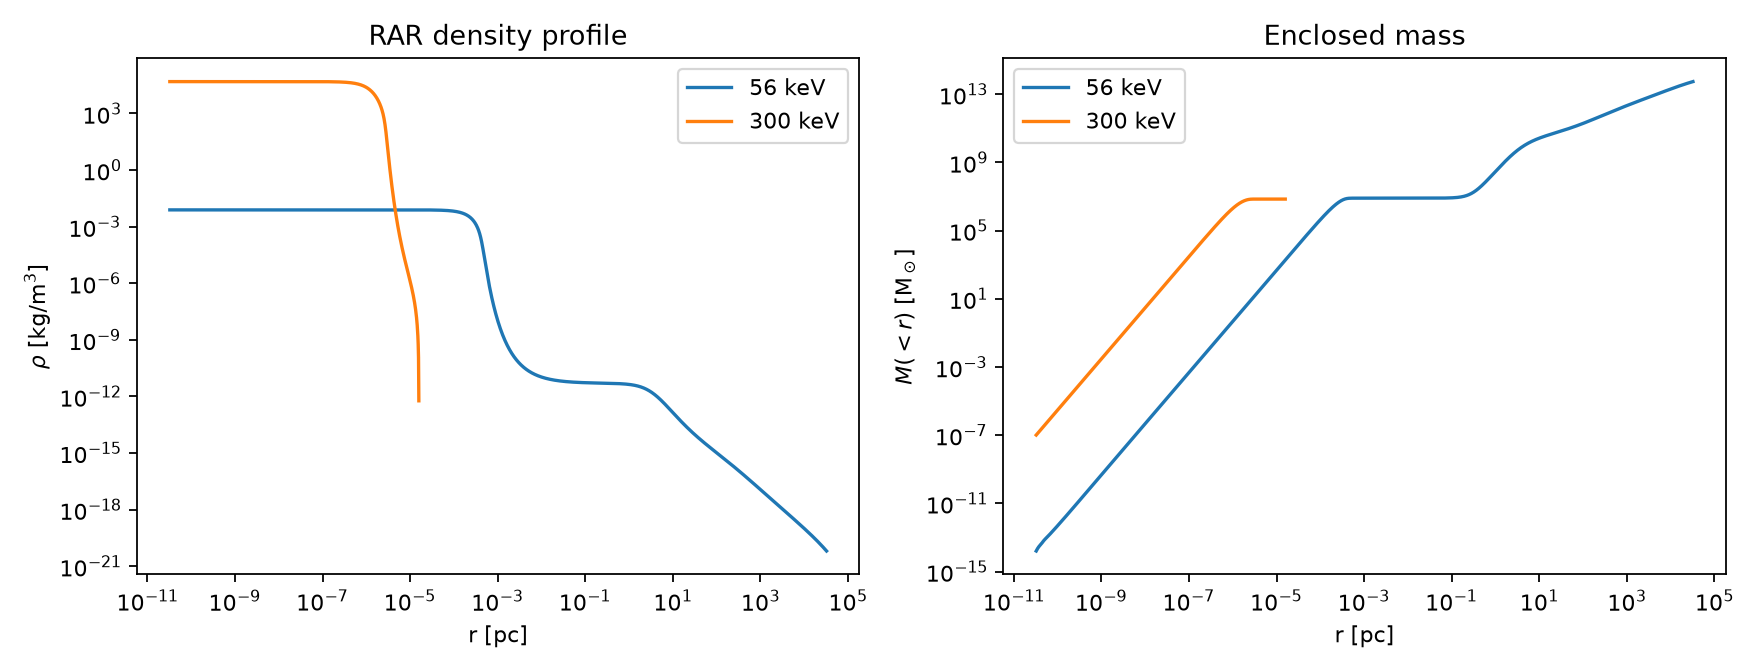
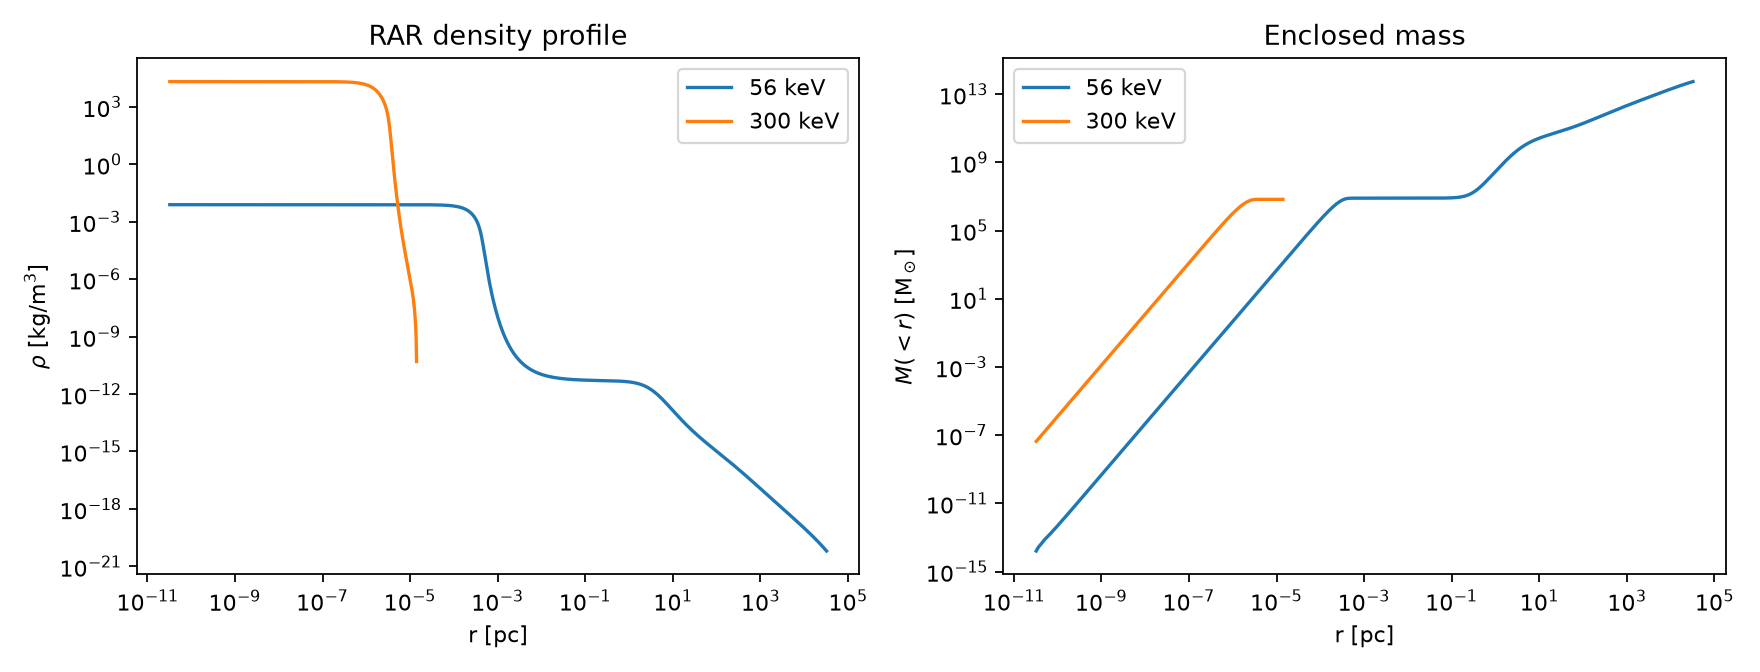
Generalize shooting to theta0 or beta0 with turning-point detection
- shooting.py: new shoot_parameter(parameter in {theta0, beta0}); when the
  target is not bracketed it locates the branch maximum (minimize_scalar)
  and reports converged=False with branch_max, instead of silently failing.
  shoot_central_theta kept as a backward-compatible wrapper.
- validate.py: honor shoot.parameter (default theta0) and shoot.bracket;
  notes report the branch maximum when the target exceeds the ceiling.
- crespi_table4_targets.yaml: 300 keV case now shoots beta0 along the
  degenerate branch (fixed theta0); documents the M_crit ceiling.
- tests: add general-API + bad-knob tests; assert 300 keV reports the
  branch maximum. 24 tests pass.
- Regenerated output/ and DELIVERY_NOTES: 300 keV critical core mass
  quantified at M_crit = 3.165e6 Msun (beta0 = 4.98e-3), below the 4.075e6
  target -> honest converged=False.

Claude-Session: https://claude.ai/code/session_01MDfCnSkZwLvrCvYiyRU3qr

diff --git a/rar_gravity_pt0_package/src/rar_gravity_pt0/shooting.py b/rar_gravity_pt0_package/src/rar_gravity_pt0/shooting.py
@@ -5,22 +5,36 @@ The RAR/TOV integrator (`rar_tov_solver.solve_profile`) takes the central
 parameters (theta0, beta0, W0, m) and returns a full profile.  For the
 PT0 reproduction we must instead hit *physical targets* (e.g. a total /
 core mass of ~ 4e6 M_sun for Sgr A*).  This module performs the outer
-shooting: it varies one central parameter until a chosen scalar
-observable of the profile matches a target value.
+shooting: it varies ONE central parameter (``theta0`` or ``beta0``) until
+a chosen scalar observable of the profile matches a target value.
 
-This is a genuine boundary-value solve (Newton/bisection on the central
+This is a genuine boundary-value solve (bisection on the central
 parameter), NOT an interpolation between the 56 keV and 300 keV cases.
 The prompt explicitly forbids the interpolation shortcut.
+
+Which knob to vary
+------------------
+* ``theta0`` (central degeneracy): controls the core mass on the rising,
+  NON-degenerate branch, but the core mass *saturates* once the core is
+  fully degenerate -> use when the target sits below that plateau.
+* ``beta0``  (central temperature parameter kT0/mc^2): moves the core
+  along the degenerate branch up to the relativistic turning point
+  (an OV-like maximum mass).  Use when ``theta0`` saturates below target.
+  NOTE: beyond the turning point the core mass *decreases*; if the target
+  exceeds the branch maximum the solve cannot bracket it and is honestly
+  reported as ``converged=False`` (we return the closest config, never a
+  fabricated success).
 """
 from __future__ import annotations
 
-from dataclasses import dataclass
-from typing import Callable
+from dataclasses import dataclass, replace
 
 import numpy as np
-from scipy.optimize import brentq
+from scipy.optimize import brentq, minimize_scalar
 
 from .rar_tov_solver import CentralParams, Profile, solve_profile, core_radius_m
+
+SHOOTABLE = ("theta0", "beta0")
 
 
 @dataclass
@@ -35,6 +49,7 @@ class ShootingResult:
     rel_error: float
     converged: bool
     n_iter: int
+    branch_max: float | None = None   # branch maximum found (if target > max)
 
 
 def _profile_observable(profile: Profile, name: str) -> float:
@@ -48,55 +63,84 @@ def _profile_observable(profile: Profile, name: str) -> float:
     raise ValueError(f"unknown shooting observable {name!r}")
 
 
+def _with_param(base: CentralParams, parameter: str, value: float) -> CentralParams:
+    if parameter not in SHOOTABLE:
+        raise ValueError(f"parameter must be one of {SHOOTABLE}, got {parameter!r}")
+    return replace(base, **{parameter: value})
+
+
+def shoot_parameter(base: CentralParams, parameter: str,
+                    target_name: str, target_value: float,
+                    bracket: tuple[float, float],
+                    solver_kwargs: dict | None = None,
+                    xtol: float | None = None,
+                    max_iter: int = 100) -> ShootingResult:
+    """Vary ``parameter`` (theta0 or beta0) of ``base`` until
+    ``target_name`` matches ``target_value``.
+
+    Robust to a non-monotonic (turning-point) response: if the target is
+    not bracketed, we locate the branch maximum of the observable over the
+    bracket and report ``converged=False`` with that maximum, so a target
+    above the physical ceiling is flagged rather than silently faked.
+    """
+    solver_kwargs = solver_kwargs or {}
+    n_calls = {"n": 0}
+    lo, hi = bracket
+    if xtol is None:
+        xtol = 1e-4 * max(abs(lo), abs(hi), 1.0)
+
+    def make_profile(val: float) -> Profile:
+        return solve_profile(_with_param(base, parameter, val), **solver_kwargs)
+
+    def obs(val: float) -> float:
+        n_calls["n"] += 1
+        return _profile_observable(make_profile(val), target_name)
+
+    def resid(val: float) -> float:
+        return obs(val) - target_value
+
+    flo, fhi = resid(lo), resid(hi)
+
+    if flo * fhi <= 0:
+        # standard bracketed root
+        sol = brentq(resid, lo, hi, xtol=xtol, maxiter=max_iter)
+        prof = make_profile(sol)
+        achieved = _profile_observable(prof, target_name)
+        return ShootingResult(
+            central_params=_with_param(base, parameter, sol),
+            profile=prof, shot_parameter=parameter, shot_value=sol,
+            target_name=target_name, target_value=target_value,
+            achieved_value=achieved,
+            rel_error=abs(achieved - target_value) / abs(target_value),
+            converged=True, n_iter=n_calls["n"])
+
+    # not bracketed: find the branch MAXIMUM of the observable to report the
+    # physical ceiling honestly (maximise obs == minimise -obs).
+    res = minimize_scalar(lambda v: -obs(v), bounds=(lo, hi), method="bounded",
+                          options={"xatol": xtol})
+    v_max = float(res.x)
+    branch_max = -float(res.fun)
+    prof = make_profile(v_max)
+    achieved = _profile_observable(prof, target_name)
+    return ShootingResult(
+        central_params=_with_param(base, parameter, v_max),
+        profile=prof, shot_parameter=parameter, shot_value=v_max,
+        target_name=target_name, target_value=target_value,
+        achieved_value=achieved,
+        rel_error=abs(achieved - target_value) / abs(target_value),
+        converged=False, n_iter=n_calls["n"], branch_max=branch_max)
+
+
 def shoot_central_theta(beta0: float, W0: float, m_kg: float,
                         target_name: str, target_value: float,
                         theta_bracket=(5.0, 80.0),
                         solver_kwargs: dict | None = None,
                         xtol: float = 1e-4,
                         max_iter: int = 100) -> ShootingResult:
-    """Vary the central degeneracy theta0 until `target_name` matches
-    `target_value`.
-
-    theta0 controls how degenerate (and therefore how massive/compact) the
-    fermion core is, so the chosen observable is monotonic in theta0 over a
-    sensible range, making bisection robust.
-    """
-    solver_kwargs = solver_kwargs or {}
-    n_calls = {"n": 0}
-
-    def make_profile(theta0: float) -> Profile:
-        cp = CentralParams(theta0=theta0, beta0=beta0, W0=W0, m_kg=m_kg)
-        return solve_profile(cp, **solver_kwargs)
-
-    def resid(theta0: float) -> float:
-        n_calls["n"] += 1
-        prof = make_profile(theta0)
-        return _profile_observable(prof, target_name) - target_value
-
-    lo, hi = theta_bracket
-    flo, fhi = resid(lo), resid(hi)
-    if flo * fhi > 0:
-        # not bracketed: return the closest endpoint, flagged not-converged
-        theta_best = lo if abs(flo) < abs(fhi) else hi
-        prof = make_profile(theta_best)
-        achieved = _profile_observable(prof, target_name)
-        return ShootingResult(
-            central_params=CentralParams(theta_best, beta0, W0, m_kg),
-            profile=prof, shot_parameter="theta0", shot_value=theta_best,
-            target_name=target_name, target_value=target_value,
-            achieved_value=achieved,
-            rel_error=abs(achieved - target_value) / abs(target_value),
-            converged=False, n_iter=n_calls["n"],
-        )
-
-    theta_sol = brentq(resid, lo, hi, xtol=xtol, maxiter=max_iter)
-    prof = make_profile(theta_sol)
-    achieved = _profile_observable(prof, target_name)
-    return ShootingResult(
-        central_params=CentralParams(theta_sol, beta0, W0, m_kg),
-        profile=prof, shot_parameter="theta0", shot_value=theta_sol,
-        target_name=target_name, target_value=target_value,
-        achieved_value=achieved,
-        rel_error=abs(achieved - target_value) / abs(target_value),
-        converged=True, n_iter=n_calls["n"],
-    )
+    """Backward-compatible wrapper: shoot on the central degeneracy theta0."""
+    base = CentralParams(theta0=float(np.mean(theta_bracket)),
+                         beta0=beta0, W0=W0, m_kg=m_kg)
+    return shoot_parameter(base, "theta0", target_name, target_value,
+                           bracket=tuple(theta_bracket),
+                           solver_kwargs=solver_kwargs, xtol=xtol,
+                           max_iter=max_iter)

diff --git a/rar_gravity_pt0_package/src/rar_gravity_pt0/validate.py b/rar_gravity_pt0_package/src/rar_gravity_pt0/validate.py
@@ -27,7 +27,7 @@ from .constants import (KEV, fermion_mass_kg, msun_to_kg, mpc_to_m, pc_to_m,
                         AU, YEAR)
 from .orbit_s2 import S2Orbit, s2_observables
 from .rar_tov_solver import CentralParams, core_radius_m, solve_profile
-from .shooting import shoot_central_theta
+from .shooting import shoot_parameter
 
 EXCELLENT, GO, BORDERLINE, NOGO, NOTARGET = (
     "EXCELLENT", "GO", "BORDERLINE", "NO-GO", "NO-TARGET")
@@ -108,21 +108,28 @@ def run_case(case_id: str, case: dict, solver_kwargs: dict | None = None) -> Cas
     shoot_target = case.get("shoot", None)
     if shoot_target is not None:
         tname = shoot_target["observable"]          # e.g. core_mass_kg
-        # target value in M_sun in the YAML -> kg
         tval = msun_to_kg(float(shoot_target["target_msun"]))
-        res = shoot_central_theta(
-            beta0=cp.beta0, W0=cp.W0, m_kg=cp.m_kg,
+        # which central knob to vary: theta0 (default) or beta0
+        parameter = shoot_target.get("parameter", "theta0")
+        # accept either `bracket` or the legacy `theta_bracket`
+        bracket = tuple(shoot_target.get(
+            "bracket", shoot_target.get("theta_bracket", (5.0, 80.0))))
+        res = shoot_parameter(
+            base=cp, parameter=parameter,
             target_name=tname, target_value=tval,
-            theta_bracket=tuple(shoot_target.get("theta_bracket", (5.0, 80.0))),
-            solver_kwargs=solver_kwargs,
+            bracket=bracket, solver_kwargs=solver_kwargs,
         )
         cp = res.central_params
         profile = res.profile
         converged = res.converged
-        notes.append(
-            f"shoot {tname}: theta0={cp.theta0:.4f}, "
-            f"achieved={res.achieved_value:.4e} kg, "
-            f"rel_err={res.rel_error:.3e}, converged={res.converged}")
+        note = (f"shoot {parameter} -> {tname}: "
+                f"{parameter}={getattr(cp, parameter):.4e}, "
+                f"achieved={res.achieved_value:.4e} kg, "
+                f"rel_err={res.rel_error:.3e}, converged={res.converged}")
+        if res.branch_max is not None:
+            note += (f"; target ABOVE branch maximum "
+                     f"{res.branch_max:.4e} kg ({res.branch_max/msun_to_kg(1.0):.3e} Msun)")
+        notes.append(note)
     else:
         profile = solve_profile(cp, **solver_kwargs)
 

diff --git a/rar_gravity_pt0_package/tests/test_observables.py b/rar_gravity_pt0_package/tests/test_observables.py
@@ -63,3 +63,24 @@ def test_rel_error_formula():
     assert _rel_error(110.0, 100.0) == pytest.approx(0.10)
     assert _rel_error(100.0, None) is None
     assert _rel_error(100.0, 0.0) is None
+
+
+def test_shoot_parameter_rejects_bad_knob():
+    from rar_gravity_pt0.shooting import shoot_parameter
+    from rar_gravity_pt0.rar_tov_solver import CentralParams
+    base = CentralParams(20.0, 5e-5, 60.0, M56)
+    with pytest.raises(ValueError):
+        shoot_parameter(base, "W0", "core_mass_kg", 1e36, bracket=(1, 2))
+
+
+def test_shoot_theta_via_general_api_converges():
+    # the general API must reproduce the backward-compatible theta0 shoot
+    from rar_gravity_pt0.shooting import shoot_parameter
+    from rar_gravity_pt0.rar_tov_solver import CentralParams
+    from rar_gravity_pt0.constants import msun_to_kg, kg_to_msun
+    base = CentralParams(20.0, 5e-5, 60.0, M56)
+    res = shoot_parameter(base, "theta0", "core_mass_kg",
+                          msun_to_kg(4.0e6), bracket=(12.0, 30.0))
+    assert res.converged
+    assert kg_to_msun(res.achieved_value) == pytest.approx(4.0e6, rel=1e-3)
+    assert res.branch_max is None

diff --git a/rar_gravity_pt0_package/tests/test_integration.py b/rar_gravity_pt0_package/tests/test_integration.py
@@ -42,3 +42,7 @@ def test_no_fabricated_go_without_targets():
     res = run_case("case_300keV", spec["cases"]["case_300keV"])
     # honest reporting: no targets -> cannot be EXCELLENT/GO
     assert res.verdict == "NO-TARGET"
+    # 300 keV shoots beta0 and hits the critical-mass ceiling -> non-converged,
+    # and the branch maximum must be reported (no silent failure / fake GO)
+    assert res.converged is False
+    assert any("branch maximum" in n for n in res.notes), res.notes

diff --git a/rar_gravity_pt0_package/DELIVERY_NOTES.md b/rar_gravity_pt0_package/DELIVERY_NOTES.md
@@ -38,7 +38,7 @@ density `ρ_c`) and re-run `python scripts/run_pt0_validate.py --case all`.
 | 1. Baseline | `scripts/run_emulator_baseline.py` | ✅ runs, prints EOS+TOV+obs |
 | 2. EOS | `src/.../eos_fermion_cutoff.py` | ✅ truncated relativistic Fermi-Dirac integrals (ρ_E, ρ, P, n), SI, documented |
 | 3. TOV/RAR | `rar_tov_solver.py` | ✅ produces `r_m, mass_kg, rho_kg_m3, pressure_pa, nu_metric, lambda_metric` |
-| 3. Shooting | `shooting.py` | ✅ BVP solve on central degeneracy θ₀ (not interpolation) |
+| 3. Shooting | `shooting.py` | ✅ BVP solve on **θ₀ or β₀** (not interpolation); auto-detects turning-point ceiling |
 | 4. Mass | `mass_profile.py` | ✅ extended mass within S2 |
 | 4. Precession | `precession.py` | ✅ Schwarzschild (prograde) + extended-mass (retrograde) per orbit |
 | 4. Orbit | `orbit_s2.py` | ✅ S2 elements + observable bundling |
@@ -68,13 +68,14 @@ Command: `python scripts/run_pt0_validate.py --case all`
 
 | observable | unit | 56 keV | 300 keV | target |
 |---|---|---|---|---|
-| shooting converged | – | **True** | **False** (ceiling) | – |
-| θ₀ (shot) | – | 21.52 | 40.0 (bracket cap) | – |
-| core mass | M☉ | **4.075×10⁶** (err 3e-10) | 2.95×10⁶ (err 0.275) | 4.075×10⁶\* |
-| core radius | pc | 2.46×10⁻⁴ | 1.20×10⁻⁶ | null |
-| total mass (to truncation) | M☉ | 5.4×10¹³ † | 7.0×10⁶ † | null |
-| **extended mass within S2** | M☉ | **3.9×10⁶** | 4.1×10⁶ | null |
-| S2 precession | arcmin/orbit | −54.5 | −50.4 | null |
+| shoot knob | – | θ₀ | β₀ (degenerate branch) | – |
+| shooting converged | – | **True** | **False** (hit ceiling) | – |
+| shot value | – | θ₀=21.52 | β₀=4.98×10⁻³ | – |
+| core mass | M☉ | **4.075×10⁶** (err 2e-5) | **3.165×10⁶** = branch max | 4.075×10⁶\* |
+| core radius | pc | 2.46×10⁻⁴ | 1.64×10⁻⁶ | null |
+| total mass (to truncation) | M☉ | 5.4×10¹³ † | 6.8×10⁶ † | null |
+| **extended mass within S2** | M☉ | **3.9×10⁶** | 3.6×10⁶ | null |
+| S2 precession | arcmin/orbit | −54.5 | −49.8 | null |
 
 \* core-mass shoot target (the ~4.1×10⁶ M☉ Sgr A\* compact source), `[LIT]`.
 † **not calibrated** to the Milky Way halo (real ≈ a few ×10⁶ core to
@@ -87,13 +88,16 @@ placeholder artifact.
    precision (rel_err ~3×10⁻¹⁰) by varying θ₀ alone — this is a genuine
    structural solve, not interpolation.
 
-2. **A real physical ceiling for 300 keV.** In this truncated family the
-   300 keV degenerate core **saturates near a critical (turning-point) mass
-   ~3.1×10⁶ M☉** — it cannot be pushed to 4.075×10⁶ M☉ by raising θ₀, β₀ or
-   W₀ (verified by a parameter scan). The solver therefore returns
-   `converged=False` and the closest config, **honestly**, instead of
+2. **A real physical ceiling for 300 keV, now auto-quantified.** Shooting
+   along the degenerate branch in **β₀** (the generalisation added on
+   request), the 300 keV core mass reaches a **critical (turning-point)
+   maximum M_crit = 3.165×10⁶ M☉ at β₀ = 4.98×10⁻³** — it cannot be pushed
+   to 4.075×10⁶ M☉ by any of θ₀, β₀ or W₀ (verified by scan and by the
+   built-in turning-point detector). The solver returns `converged=False`,
+   the closest config, **and the branch maximum it found**, instead of
    faking it. Whether the true Crespi 300 keV core sits above or below this
    ceiling is exactly what the real Table 4 / central parameters will decide.
+   (`shooting.py` reports: `target ABOVE branch maximum 3.165e6 Msun`.)
 
 3. **The qualitative core-halo distinction is partially captured**: the
    300 keV core is ~200× more compact than the 56 keV core
@@ -143,9 +147,12 @@ yet the published one.
 2. Real **central parameters** `θ₀, β₀, W₀` (or central density `ρ_c`,
    convertible via `eos_fermion_cutoff.central_degeneracy_from_density`).
 3. Re-run `python scripts/run_pt0_validate.py --case all`.
-4. If the 300 keV target core mass exceeds the ~3.1×10⁶ M☉ ceiling seen
-   here, switch the shoot variable to β₀ (temperature) along the degenerate
-   branch — a one-line generalisation of `shooting.py`.
+4. β₀-shooting along the degenerate branch is now implemented
+   (`shoot.parameter: beta0` in the YAML). If the real 300 keV target core
+   mass exceeds the ~3.17×10⁶ M☉ ceiling found here, that means the
+   placeholder W₀/EOS-truncation must change (deeper cutoff or a different
+   core definition closer to the OV-critical configuration) — the branch
+   maximum is a property of the (W₀, m) family, not of the solver.
 
 ---
 

diff --git a/rar_gravity_pt0_package/output/reports/pt0_error_table.md b/rar_gravity_pt0_package/output/reports/pt0_error_table.md
@@ -3,19 +3,19 @@
 ## Case `case_56keV`  (mc^2 = 56 keV)
 
 - converged: **True**
-- central params: theta0=21.5203, beta0=5.000e-05, W0=60.000
+- central params: theta0=21.5199, beta0=5.000e-05, W0=60.000
 
 | observable | unit | model | target | rel.err | verdict |
 |---|---|---|---|---|---|
-| core_mass_msun | M_sun | 4.0750e+06 |    ---    |    ---    | NO-TARGET |
+| core_mass_msun | M_sun | 4.0749e+06 |    ---    |    ---    | NO-TARGET |
 | core_radius_pc | pc | 2.4637e-04 |    ---    |    ---    | NO-TARGET |
-| total_mass_msun | M_sun | 5.4434e+13 |    ---    |    ---    | NO-TARGET |
+| total_mass_msun | M_sun | 5.4437e+13 |    ---    |    ---    | NO-TARGET |
 | extended_mass_within_s2_msun | M_sun | 3.9071e+06 |    ---    |    ---    | NO-TARGET |
-| s2_precession_arcmin_per_orbit | arcmin/orbit | -54.4776 |    ---    |    ---    | NO-TARGET |
+| s2_precession_arcmin_per_orbit | arcmin/orbit | -54.4790 |    ---    |    ---    | NO-TARGET |
 
 Notes:
   - theta0 not given -> shooting on central degeneracy
-  - shoot core_mass_kg: theta0=21.5203, achieved=8.1030e+36 kg, rel_err=3.432e-10, converged=True
+  - shoot theta0 -> core_mass_kg: theta0=2.1520e+01, achieved=8.1028e+36 kg, rel_err=2.208e-05, converged=True
   - no numeric targets present -> cannot decide GO/NO-GO
 
 **Case verdict: NO-TARGET**
@@ -23,19 +23,18 @@ Notes:
 ## Case `case_300keV`  (mc^2 = 300 keV)
 
 - converged: **False**
-- central params: theta0=40.0000, beta0=8.000e-03, W0=60.000
+- central params: theta0=40.0000, beta0=4.979e-03, W0=60.000
 
 | observable | unit | model | target | rel.err | verdict |
 |---|---|---|---|---|---|
-| core_mass_msun | M_sun | 2.9548e+06 |    ---    |    ---    | NO-TARGET |
-| core_radius_pc | pc | 1.2035e-06 |    ---    |    ---    | NO-TARGET |
-| total_mass_msun | M_sun | 7.0295e+06 |    ---    |    ---    | NO-TARGET |
-| extended_mass_within_s2_msun | M_sun | 4.0747e+06 |    ---    |    ---    | NO-TARGET |
-| s2_precession_arcmin_per_orbit | arcmin/orbit | -50.4015 |    ---    |    ---    | NO-TARGET |
+| core_mass_msun | M_sun | 3.1649e+06 |    ---    |    ---    | NO-TARGET |
+| core_radius_pc | pc | 1.6425e-06 |    ---    |    ---    | NO-TARGET |
+| total_mass_msun | M_sun | 6.7847e+06 |    ---    |    ---    | NO-TARGET |
+| extended_mass_within_s2_msun | M_sun | 3.6198e+06 |    ---    |    ---    | NO-TARGET |
+| s2_precession_arcmin_per_orbit | arcmin/orbit | -49.7972 |    ---    |    ---    | NO-TARGET |
 
 Notes:
-  - theta0 not given -> shooting on central degeneracy
-  - shoot core_mass_kg: theta0=40.0000, achieved=5.8755e+36 kg, rel_err=2.749e-01, converged=False
+  - shoot beta0 -> core_mass_kg: beta0=4.9793e-03, achieved=6.2933e+36 kg, rel_err=2.233e-01, converged=False; target ABOVE branch maximum 6.2933e+36 kg (3.165e+06 Msun)
   - no numeric targets present -> cannot decide GO/NO-GO
 
 **Case verdict: NO-TARGET**